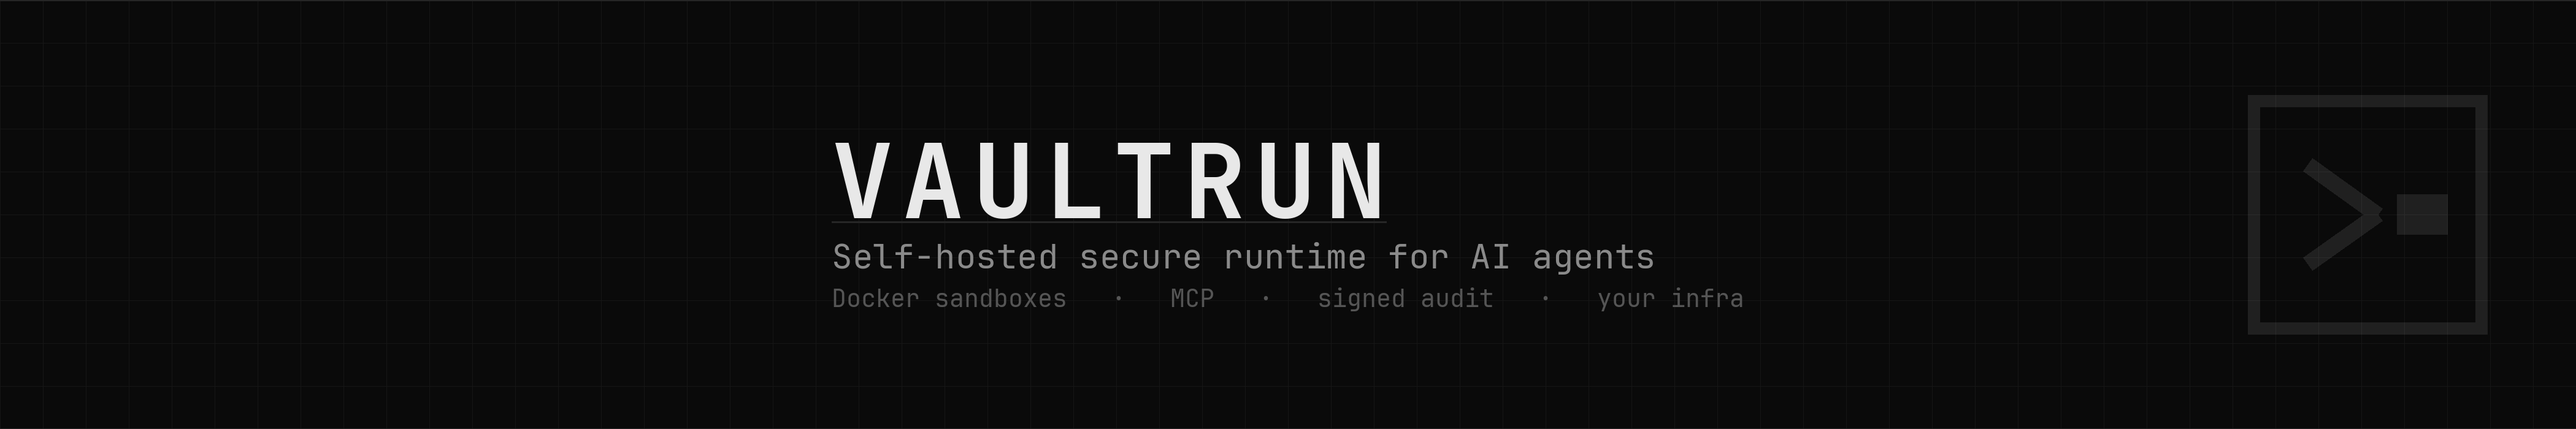
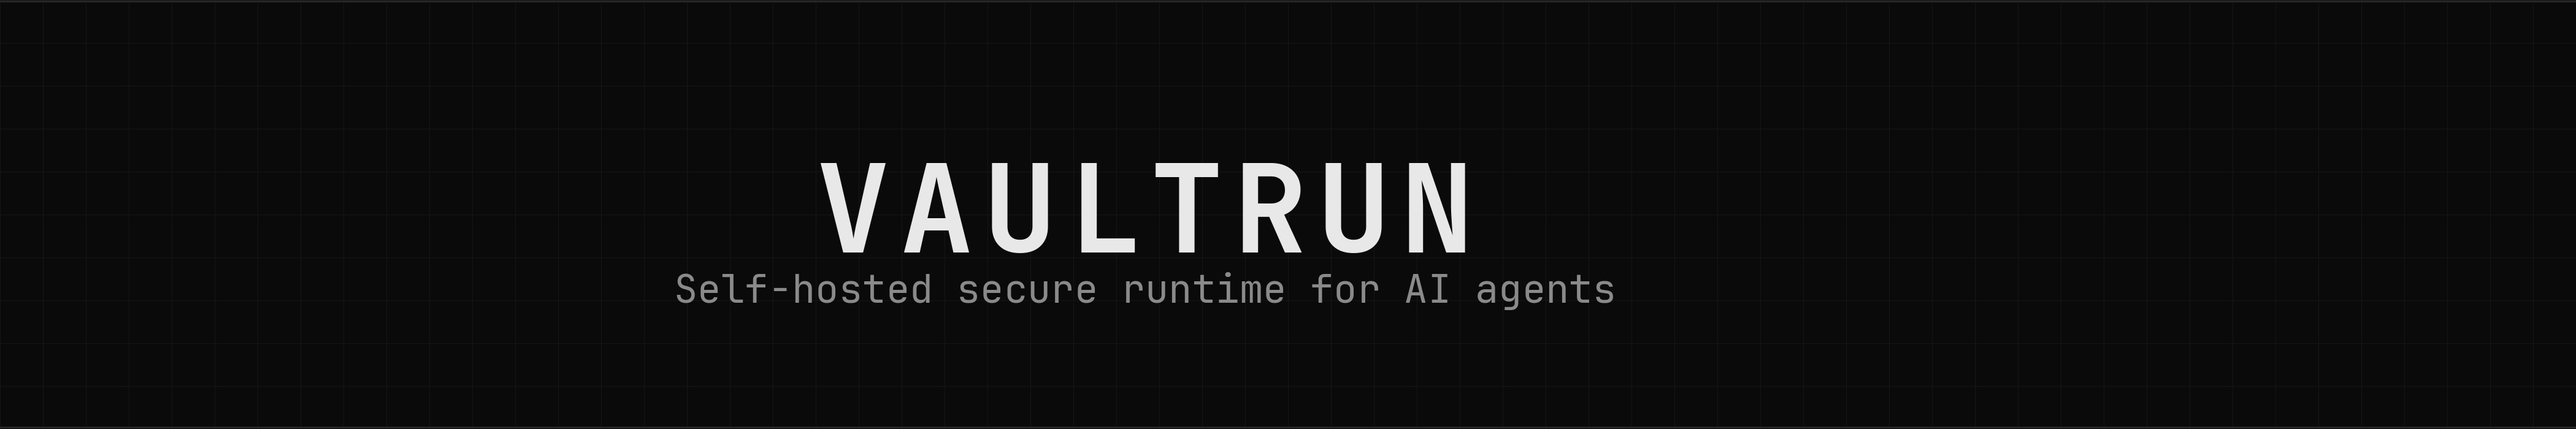
fix(brand): simplify LinkedIn cover to two lines and ship JPEG
Company Pages render the cover as a ~191px strip; three lines plus a
right-side watermark collapsed. Center a large wordmark + tagline, pad
the logo for rounded crop, and add linkedin-cover.jpg (LinkedIn prefers JPEG).

Changed region(s): [[0.2495, 0.33, 0.6862, 0.72], [0.0, 0.99, 1.0, 1.0]]

diff --git a/scripts/generate-brand-pngs.py b/scripts/generate-brand-pngs.py
@@ -99,6 +99,15 @@ def save(img: Image.Image, name: str) -> None:
     print(f"  {name:32s} {rgb.size[0]:4d}×{rgb.size[1]:<4d}  {kb:7.1f} KB")
 
 
+def save_jpeg(img: Image.Image, name: str, quality: int = 93) -> None:
+    """LinkedIn cover: JPEG 4:4:4 — their help page prefers JPEG over logo-PNGs."""
+    path = OUT / name
+    rgb = img.convert("RGB")
+    rgb.save(path, "JPEG", quality=quality, optimize=True, subsampling=0)
+    kb = path.stat().st_size / 1024
+    print(f"  {name:32s} {rgb.size[0]:4d}×{rgb.size[1]:<4d}  {kb:7.1f} KB")
+
+
 def glow_layer(size: tuple[int, int], blobs: list[tuple[float, float, float, int]]) -> Image.Image:
     """Soft white glows: (cx, cy, radius, peak_alpha)."""
     layer = Image.new("L", size, 0)
@@ -150,56 +159,44 @@ def lockup(width: int, height: int, *, light: bool = False) -> Image.Image:
 
 
 def linkedin_logo() -> Image.Image:
-    """400×400 page logo. Self-contained dark mark so it reads on light and dark UI."""
-    return mark_square(400, light=False)
+    """400×400 page logo. Extra inset so LinkedIn’s rounded crop doesn’t clip the frame.
+    Square mark only — never the lockup wordmark."""
+    size = 400
+    img = Image.new("RGBA", (size, size), BG)
+    draw = ImageDraw.Draw(img)
+    pad = 36
+    draw_mark(draw, pad, pad, size - 2 * pad, FG)
+    return img
 
 
 def linkedin_cover() -> Image.Image:
-    """4200×700 company cover (6:1). LinkedIn renders ~1128×191 and overlays the
-    page logo on the bottom-left — so this file has no mark, and type sits in a
-    center-right safe band (not the personal-profile banner layout)."""
+    """4200×700 company cover (6:1). Live Page renders this as a ~1128×191 strip —
+    two lines max, no mark, no right-edge watermark (LinkedIn crops that corner)."""
     w, h = 4200, 700
     img = Image.new("RGBA", (w, h), BG)
     img = apply_glow(
         img,
         [
-            (1100, -80, 720, 20),
-            (3400, 80, 560, 16),
+            (w // 2, -40, 900, 18),
         ],
     )
     draw = ImageDraw.Draw(img)
     draw_grid(draw, w, h, 70, (22, 22, 22, 255))
-    draw.line([(0, 0), (w, 0)], fill=LINE, width=2)
-    draw.line([(0, h - 1), (w, h - 1)], fill=LINE, width=2)
+    draw.line([(0, 2), (w, 2)], fill=LINE, width=3)
+    draw.line([(0, h - 3), (w, h - 3)], fill=LINE, width=3)
 
-    # Faint mark on the FAR right (opposite the page-logo overlap).
-    wm_layer = Image.new("RGBA", (w, h), (0, 0, 0, 0))
-    wm_draw = ImageDraw.Draw(wm_layer)
-    wm_size = 520
-    draw_mark(wm_draw, w - wm_size - 80, (h - wm_size) // 2, wm_size, (*FG[:3], 255))
-    wm_layer.putalpha(wm_layer.getchannel("A").point(lambda a: int(a * 0.10) if a else 0))
-    img = Image.alpha_composite(img, wm_layer)
-    draw = ImageDraw.Draw(img)
-
-    word = load_font(BOLD, 168)
-    tag = load_font(REG, 56)
-    chips_f = load_font(REG, 40)
-    tracking = 14
+    word = load_font(BOLD, 200)
+    tag = load_font(REG, 64)
+    tracking = 16
     tag_line = "Self-hosted secure runtime for AI agents"
-    chips = "Docker sandboxes   ·   MCP   ·   signed audit   ·   your infra"
     word_w = text_width(draw, "VAULTRUN", word, tracking)
-    block_w = max(word_w, draw.textlength(tag_line, font=tag), draw.textlength(chips, font=chips_f))
-    # Center the type; floor at 720px so the page logo (bottom-left) never covers it.
-    tx = max(720, int((w - block_w) / 2))
-    block_h = 168 + 28 + 56 + 24 + 40
-    ty = (h - block_h) // 2 - 8
+    tag_w = draw.textlength(tag_line, font=tag)
+    block_w = max(word_w, tag_w)
+    block_h = 200 + 20 + 64
+    tx = max(640, int((w - block_w) / 2))
+    ty = (h - block_h) // 2
     draw_spaced(draw, (tx, ty), "VAULTRUN", word, FG, tracking=tracking)
-    draw.text((tx, ty + 168 + 28), tag_line, font=tag, fill=DIM)
-    draw.text((tx, ty + 168 + 28 + 56 + 24), chips, font=chips_f, fill=FAINT)
-
-    # Hairline under the wordmark, width of VAULTRUN
-    rule_y = ty + 168 + 10
-    draw.line([(tx, rule_y), (tx + word_w, rule_y)], fill=LINE, width=3)
+    draw.text((tx + (word_w - tag_w) / 2, ty + 200 + 20), tag_line, font=tag, fill=DIM)
     return img
 
 
@@ -379,7 +376,9 @@ def main() -> None:
     save(video_endcard(), "video-endcard.png")
 
     save(linkedin_logo(), "linkedin-logo.png")
-    save(linkedin_cover(), "linkedin-cover.png")
+    cover = linkedin_cover()
+    save(cover, "linkedin-cover.png")
+    save_jpeg(cover, "linkedin-cover.jpg")
     save(linkedin_profile_banner(), "linkedin-profile-banner.png")
     save(first_post(), "linkedin-first-post.png")
 
@@ -389,6 +388,7 @@ def main() -> None:
     for name in (
         "linkedin-logo.png",
         "linkedin-cover.png",
+        "linkedin-cover.jpg",
         "linkedin-profile-banner.png",
         "linkedin-first-post.png",
         "og.png",

diff --git a/docs/linkedin-page.md b/docs/linkedin-page.md
@@ -12,8 +12,8 @@ Pair with [`site/brand/`](../site/brand/) (upload files) and [`launch-post.md`](
 
 | LinkedIn field | File | Size | Notes |
 |----------------|------|------|--------|
-| **Logo** | [`linkedin-logo.png`](../site/brand/linkedin-logo.png) | 400×400 | Dark mark with fill — reads on light *and* dark LinkedIn UI. Do not use the wide lockup; it becomes illegible at feed size. |
-| **Cover / header** | [`linkedin-cover.png`](../site/brand/linkedin-cover.png) | 4200×700 | **This file only.** If the banner shows a mark on the left plus “Building a self-hosted…”, you uploaded the personal-profile banner — replace it. LinkedIn renders ~1128×191 and overlays the page logo bottom-left, so this cover has no mark on the left. In the cropper: don’t zoom, use the full image. Max 3 MB. |
+| **Logo** | [`linkedin-logo.png`](../site/brand/linkedin-logo.png) | 400×400 | Square mark only (`>_`). If the logo tile shows the word **VAULTRUN**, you uploaded `lockup.png` — replace it. |
+| **Cover / header** | [`linkedin-cover.jpg`](../site/brand/linkedin-cover.jpg) | 4200×700 | **Upload this JPEG** (LinkedIn’s help prefers JPEG over logo-PNGs). Company covers **are** a thin strip (~1128×191 on desktop) — that is the platform, not a failed crop. Two lines only. In the cropper: don’t zoom. Check **View as member**, not the tiny left preview (it clips the top). |
 | **First post image** | [`linkedin-first-post.png`](../site/brand/linkedin-first-post.png) | 1080×1080 | Attach as a native image. Do **not** also paste a URL in the post body (algorithm throttles link posts). |
 | **Link preview** (later) | [`og.png`](../site/brand/og.png) | 1200×630 | Used when someone shares vaultrun.dev. Already referenced by the site. |
 | **Square posts** | [`social-square.png`](../site/brand/social-square.png) | 1080×1080 | Generic square if you need a second image. |

diff --git a/site/brand/README.md b/site/brand/README.md
@@ -32,7 +32,7 @@ Terminal prompt inside a square frame: `>_`
 | `social-square.png` | 1080×1080 | Profile / square posts |
 | `video-endcard.png` | 1920×1080 | Demo video end card |
 | `linkedin-logo.png` | 400×400 | Company Page logo |
-| `linkedin-cover.png` | 4200×700 | Company Page cover (upload size) |
+| `linkedin-cover.png` / `linkedin-cover.jpg` | 4200×700 | Company Page cover. **Upload the JPEG.** |
 | `linkedin-profile-banner.png` | 1584×396 | Founder personal-profile banner |
 | `linkedin-first-post.png` | 1080×1080 | Attach to the Page launch post |
 
